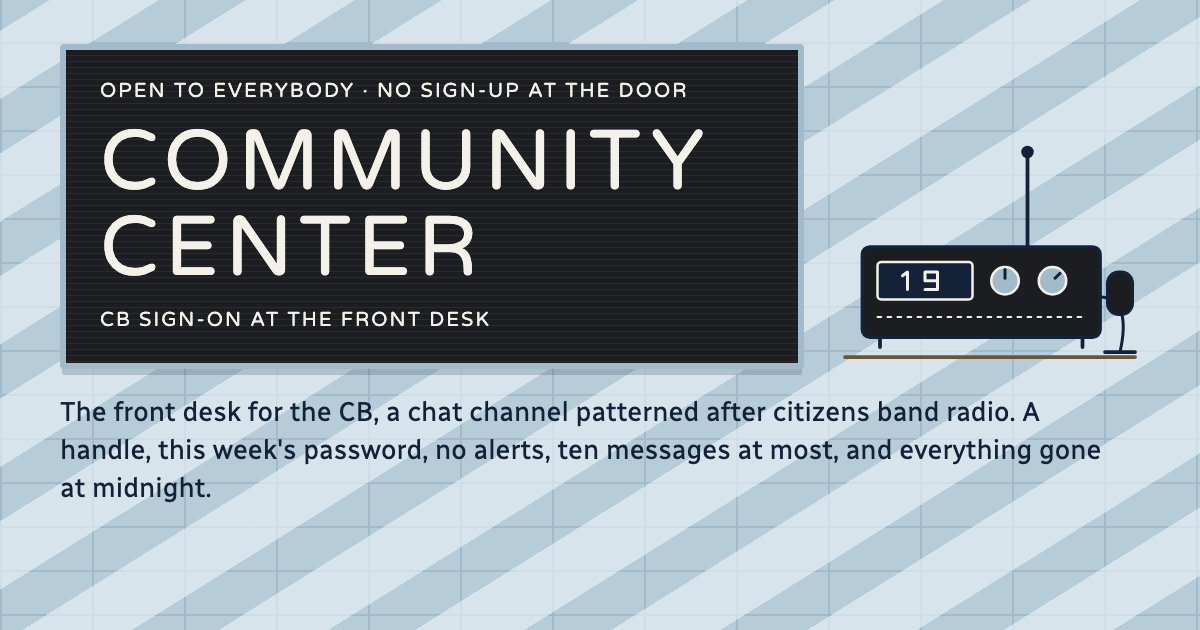
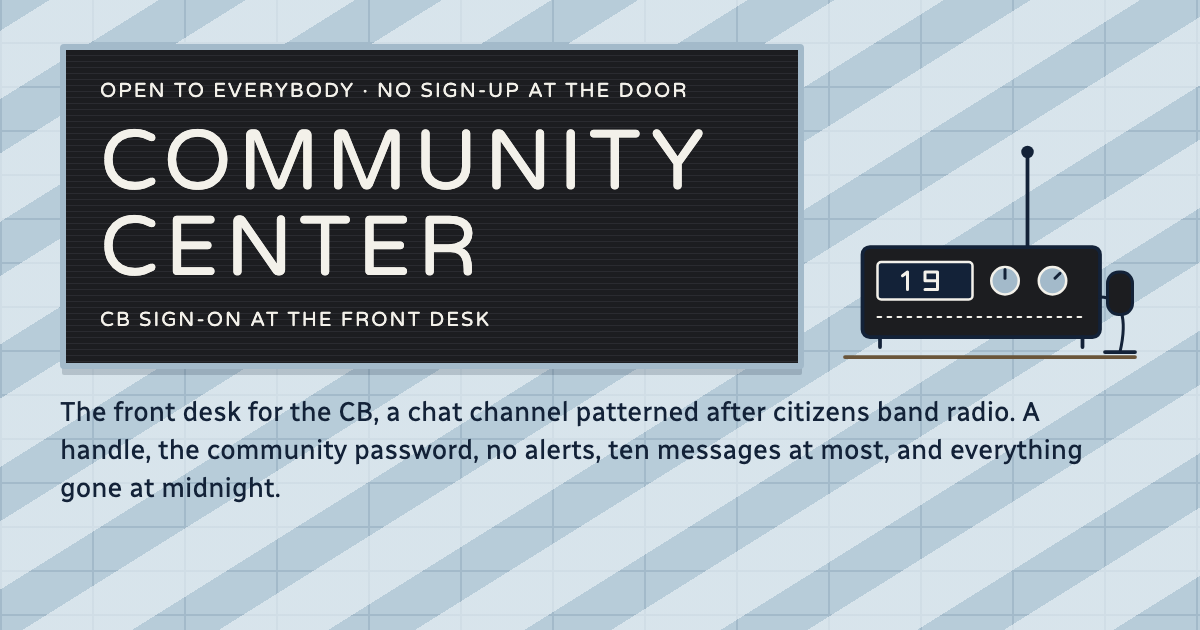
cb: the community password, not this week's
Ryan, 2026-09-26: the password will probably only change if there is a
problem, so "this week's password" promised a rotation that is not going
to happen. It is "the community password" everywhere it is named: the
Community Center's sign-on label, its description and share card, the
line above the form (which now says it only changes if something goes
wrong, and then everybody signs on again), two house norms, the credits,
the street door, Plural Mural's chalkboard, and the sign-on function's
refusal. The changelog entry from the day the CB opened keeps its words,
because it records what shipped.

DECISIONS.md had how often the password rotates as open; it is settled:
only when there is a problem, which is also the only ban there is.

Changed region(s): [[0.0308, 0.6937, 0.925, 0.8143]]

diff --git a/community-center.html b/community-center.html
@@ -4,20 +4,20 @@
 <meta charset="utf-8">
 <meta name="viewport" content="width=device-width, initial-scale=1">
 <title>Community Center &mdash; Stimpunks.World</title>
-<meta name="description" content="A shopfront on the street with the blinds half open: the front desk where you sign on to the CB with a handle and this week's password, its house norms and our covenant, and the community service board, with a slot for every room that takes something in from our community.">
+<meta name="description" content="A shopfront on the street with the blinds half open: the front desk where you sign on to the CB with a handle and the community password, its house norms and our covenant, and the community service board, with a slot for every room that takes something in from our community.">
 <link rel="canonical" href="https://stimpunks.world/community-center.html">
 <meta name="color-scheme" content="light">
 <meta name="theme-color" content="#B7CCD9">
 <meta property="og:type" content="website">
 <meta property="og:site_name" content="Stimpunks.World">
 <meta property="og:title" content="Community Center &mdash; Stimpunks.World">
-<meta property="og:description" content="The front desk for the CB, a chat channel patterned after citizens band radio. A handle, this week's password, no alerts, ten messages at most, and everything gone at midnight.">
+<meta property="og:description" content="The front desk for the CB, a chat channel patterned after citizens band radio. A handle, the community password, no alerts, ten messages at most, and everything gone at midnight.">
 <meta property="og:url" content="https://stimpunks.world/community-center.html">
 <meta property="og:image" content="https://stimpunks.world/og/community-center.png">
 <meta property="og:image:type" content="image/png">
 <meta property="og:image:width" content="1200">
 <meta property="og:image:height" content="630">
-<meta property="og:image:alt" content="A powder-blue painted block wall with bars of morning sun falling across it at an angle, through a half-open blind. A black felt letterboard in an aluminium frame reads, in white push-in capitals: Open to everybody · no sign-up at the door, then “Community Center”, then CB sign-on at the front desk. Beside it, a drawing of a CB base station on a desk, with its aerial up and its microphone on a stand, the channel window reading 19. Under it, in dark ink on the wall: The front desk for the CB, a chat channel patterned after citizens band radio. A handle, this week&#x27;s password, no alerts, ten messages at most, and everything gone at midnight.">
+<meta property="og:image:alt" content="A powder-blue painted block wall with bars of morning sun falling across it at an angle, through a half-open blind. A black felt letterboard in an aluminium frame reads, in white push-in capitals: Open to everybody · no sign-up at the door, then “Community Center”, then CB sign-on at the front desk. Beside it, a drawing of a CB base station on a desk, with its aerial up and its microphone on a stand, the channel window reading 19. Under it, in dark ink on the wall: The front desk for the CB, a chat channel patterned after citizens band radio. A handle, the community password, no alerts, ten messages at most, and everything gone at midnight.">
 <meta name="twitter:card" content="summary_large_image">
 <link rel="icon" href="favicon.svg" type="image/svg+xml">
 <link rel="icon" href="favicon.ico" sizes="32x32">
@@ -32,7 +32,7 @@
      stored choice wins over the media query, including a choice to turn it UP. -->
 <script>var d=document.documentElement,v=matchMedia('(prefers-reduced-motion: reduce)').matches?'gentle':'regular';try{var s=localStorage.getItem('love-intensity');if(s==='gentle'||s==='regular'||s==='max'){v=s;}}catch(e){}d.setAttribute('data-intensity',v);</script>
 <!-- structured-data:begin -->
-<script type="application/ld+json">{"@context":"https://schema.org","@graph":[{"@type":"WebSite","@id":"https://stimpunks.world/#website","name":"Stimpunks.World","url":"https://stimpunks.world/","description":"Queer without fear. Interdependent and here. Divergent and proud. Living out loud. One street, no two rooms alike, a garden through the gate in the wall, a campground past the treeline, and a dial that lets you decide how loud it gets. A Stimpunks Foundation site.","inLanguage":"en","publisher":{"@id":"https://stimpunks.org/#org"},"license":"https://creativecommons.org/licenses/by-sa/4.0/"},{"@type":"Organization","@id":"https://stimpunks.org/#org","name":"Stimpunks Foundation","url":"https://stimpunks.org/"},{"@type":"WebPage","@id":"https://stimpunks.world/community-center.html#webpage","url":"https://stimpunks.world/community-center.html","name":"Community Center — Stimpunks.World","description":"A shopfront on the street with the blinds half open: the front desk where you sign on to the CB with a handle and this week's password, its house norms and our covenant, and the community service board, with a slot for every room that takes something in from our community.","inLanguage":"en","isPartOf":{"@id":"https://stimpunks.world/#website"},"publisher":{"@id":"https://stimpunks.org/#org"}}]}</script>
+<script type="application/ld+json">{"@context":"https://schema.org","@graph":[{"@type":"WebSite","@id":"https://stimpunks.world/#website","name":"Stimpunks.World","url":"https://stimpunks.world/","description":"Queer without fear. Interdependent and here. Divergent and proud. Living out loud. One street, no two rooms alike, a garden through the gate in the wall, a campground past the treeline, and a dial that lets you decide how loud it gets. A Stimpunks Foundation site.","inLanguage":"en","publisher":{"@id":"https://stimpunks.org/#org"},"license":"https://creativecommons.org/licenses/by-sa/4.0/"},{"@type":"Organization","@id":"https://stimpunks.org/#org","name":"Stimpunks Foundation","url":"https://stimpunks.org/"},{"@type":"WebPage","@id":"https://stimpunks.world/community-center.html#webpage","url":"https://stimpunks.world/community-center.html","name":"Community Center — Stimpunks.World","description":"A shopfront on the street with the blinds half open: the front desk where you sign on to the CB with a handle and the community password, its house norms and our covenant, and the community service board, with a slot for every room that takes something in from our community.","inLanguage":"en","isPartOf":{"@id":"https://stimpunks.world/#website"},"publisher":{"@id":"https://stimpunks.org/#org"}}]}</script>
 <!-- structured-data:end -->
 </head>
 <!-- data-cb="here": this page loads cb.js itself, because the pass comes from
@@ -53,13 +53,13 @@
     <p class="ctr-board__line">CB sign-on at the front desk</p>
   </header>
 
-  <p class="ctr-lede">The street&rsquo;s community center, at about ten in the morning. The sun comes in through the blinds, the chairs are stacked against the wall, and there is a radio on the front desk. <strong>The radio is the CB</strong>, a chat channel patterned after citizens band radio, and this is the only place it is switched on. Sign on with a handle and this week&rsquo;s password and it rides along in the corner of your screen, on every page of the street, until the password changes or you sign off. <strong>On the wall by the desk is the community service board</strong>: every way there is to give something to a room on this street, and how.</p>
+  <p class="ctr-lede">The street&rsquo;s community center, at about ten in the morning. The sun comes in through the blinds, the chairs are stacked against the wall, and there is a radio on the front desk. <strong>The radio is the CB</strong>, a chat channel patterned after citizens band radio, and this is the only place it is switched on. Sign on with a handle and the community password and it rides along in the corner of your screen, on every page of the street, until the password changes or you sign off. <strong>On the wall by the desk is the community service board</strong>: every way there is to give something to a room on this street, and how.</p>
 
   <section class="ctr-part" aria-labelledby="cb-signon-h" id="cb-signon-desk">
     <h2 id="cb-signon-h">The front desk</h2>
     <div class="ctr-desk">
       <div>
-        <p>A handle is whatever you type, up to 24 characters. The password is shared with <a href="https://stimpunks.org/community/">the Stimpunks community</a> and changes from time to time, so ask for it there; if you are not in the community yet, <a href="https://stimpunks.org/community/join/">joining is on stimpunks.org</a>.</p>
+        <p>A handle is whatever you type, up to 24 characters. The password is shared with <a href="https://stimpunks.org/community/">the Stimpunks community</a>, so ask for it there. It only changes if something goes wrong, and then everybody signs on again with the new one; if you are not in the community yet, <a href="https://stimpunks.org/community/join/">joining is on stimpunks.org</a>.</p>
 
         <form class="ctr-form" id="cb-signon" hidden>
           <div>
@@ -67,7 +67,7 @@
             <input class="ctr-in" id="cb-handle" name="handle" type="text" maxlength="24" required autocomplete="nickname" spellcheck="false">
           </div>
           <div>
-            <label class="ctr-lab" for="cb-password">This week&rsquo;s password</label>
+            <label class="ctr-lab" for="cb-password">The community password</label>
             <input class="ctr-in" id="cb-password" name="password" type="password" required autocomplete="current-password">
           </div>
           <button class="ctr-go" type="submit">Sign on</button>
@@ -128,12 +128,12 @@
     <ol class="ctr-list">
       <li><strong>Our covenant is the floor.</strong> Everything in <a href="https://stimpunks.org/covenant/">the Stimpunks Covenant</a> applies on the channel, as it does in every Stimpunks space.</li>
       <li><strong>A handle is not proof of anybody.</strong> Nothing checks them, so do not borrow somebody else&rsquo;s, and do not take anybody&rsquo;s as proof of who they are. The one mark that is checked is <b>BASE</b>: only our moderators can send it.</li>
-      <li><strong>It is a room, not a private line.</strong> Everybody with this week&rsquo;s password can read the channel. Say what you would say in a room with people in it.</li>
+      <li><strong>It is a room, not a private line.</strong> Everybody with the community password can read the channel. Say what you would say in a room with people in it.</li>
       <li><strong>What is said here stays here.</strong> The channel forgets at midnight; do not carry it off in a screenshot or a repost unless everybody in it has said you can. That is the covenant&rsquo;s own privacy norm, on the one channel of ours built to forget.</li>
       <li><strong>Nobody has to answer.</strong> There are no alerts because nobody is waiting on you. A message into a quiet channel is fine, a quiet channel is fine, and you can leave without saying goodbye.</li>
       <li><strong>Plain words are fine.</strong> Say ten-four and breaker-breaker if you like them. Nobody needs to know the codes.</li>
       <li><strong>A room on the street is a link.</strong> Type # and the start of its name, like #den, pick it from the list, and everybody on the channel sees it as #The Den, linked. Arrow keys move through the list, Enter or Tab picks, and Escape leaves your # alone. A room&rsquo;s full address works too, like stimpunks.world/the-den.html. An address anywhere else stays plain words, which you can still copy.</li>
-      <li><strong>Keep the password inside the community.</strong> It changes from time to time, and everybody is signed off when it does.</li>
+      <li><strong>Keep the password inside the community.</strong> It only changes if there is a problem, and everybody is signed off when it does.</li>
       <li><strong>If something is wrong, tell the base.</strong> Say so on the channel, or <a href="https://stimpunks.org/contact/">reach us privately</a>. The base station can take a message off the air. If it keeps happening, the password changes, which signs everybody off at once, and that is the only other lever there is.</li>
     </ol>
   </section>
@@ -402,7 +402,7 @@
 
   <section class="ctr-part" aria-labelledby="cb-whose-h">
     <h2 id="cb-whose-h">Whose this is</h2>
-    <p><strong>The CB was Ryan&rsquo;s idea</strong>: a simple chat patterned after citizens band radio, a shared password that rotates, no alerts, a short history cleared daily, and a radio that floats on the screen once you are on. It is the one thing on this street that talks to a server, and the only thing that sends anything anywhere, and the <a href="privacy.html">privacy page</a> says in plain words what that server keeps.</p>
+    <p><strong>The CB was Ryan&rsquo;s idea</strong>: a simple chat patterned after citizens band radio, one password shared with the community, no alerts, a short history cleared daily, and a radio that floats on the screen once you are on. It is the one thing on this street that talks to a server, and the only thing that sends anything anywhere, and the <a href="privacy.html">privacy page</a> says in plain words what that server keeps.</p>
     <p class="ctr-further">The type is Varela Round, by Joe Prince, for the letterboard, and Radio Canada, by Charles Daoud, Coppers and Brasses, Alexandre Saumier Demers and Jacques Le Bailly, for everything that is read, both under the SIL Open Font License and read off their own records rather than typed. The radio on the desk is ours. Everything is credited in the <a href="liner-notes.html">liner notes</a>.</p>
   </section>
 

diff --git a/plural-mural.html b/plural-mural.html
@@ -217,7 +217,7 @@
         <p class="pm-chalk__said" id="pm-chalk-said" role="status"></p>
       </form>
     </div>
-    <p class="pm-chalk__signon" id="pm-chalk-signon" hidden>Writing on the board takes a CB handle and this week&rsquo;s password: <a href="community-center.html">sign on at the Community Center</a>, then come back. Reading it takes nothing.</p>
+    <p class="pm-chalk__signon" id="pm-chalk-signon" hidden>Writing on the board takes a CB handle and the community password: <a href="community-center.html">sign on at the Community Center</a>, then come back. Reading it takes nothing.</p>
     <ul class="pm-rules">
       <li><strong>Anybody can read it, and only people signed on to the CB can write on it.</strong> That is what keeps the chalk in the community&rsquo;s hands: the password is shared in <a href="https://stimpunks.org/community/">our community</a> and changes from time to time. A handle is whatever somebody typed, so a name on the board is not proof of who wrote it.</li>
       <li><strong>A note is rubbed out seven days after it goes up</strong>, and the board holds thirty, so a full board loses its oldest note to make room. There is no archive and no copy. Search engines are asked not to keep it.</li>

diff --git a/index.html b/index.html
@@ -307,7 +307,7 @@
       <span class="door__awning" aria-hidden="true"></span>
       <span class="door__body">
         <span><span class="door__name">Community Center</span>
-        <span class="door__blurb">A painted block hall with the blinds half open, and a radio on the front desk. Sign on to the CB with a handle and this week&rsquo;s password, read the house norms, and the radio rides along in the corner of every page until you sign off.</span></span>
+        <span class="door__blurb">A painted block hall with the blinds half open, and a radio on the front desk. Sign on to the CB with a handle and the community password, read the house norms, and the radio rides along in the corner of every page until you sign off.</span></span>
         <span class="door__knock">sign on &rarr;</span>
       </span>
     </a></li>

diff --git a/DECISIONS.md b/DECISIONS.md
@@ -14,7 +14,7 @@ Settled choices and open ones, each with the reasoning, so the same question is 
 
 **The Dopamine Dress-Up Den's looks with names on them came in a brief.** Ryan's is his own; Helen's was relayed by Ryan (cardigans, flowing dresses, a witchy style), and the moons, the midnight and the plum on it are the house's guess at witchy. The room says so on the look and in the liner notes. Open: whether Helen wants to change hers or give her own words. Settled 2026-09-25: our community's own looks go on the peg, in words and never as a photograph, with the house picking prints off the rails and drawing any garment it has not got yet; the room's terms are under *A look of your own* and the Community Center's service board carries a slot for it, held to those words by `make-community.py`. Still open: who writes an arriving look into `data/dressup.json`, and whether looks ever need a second page once there are a lot of them. Not open: a paper doll or any drawing of a body, sizes, gendered rails, a rating, or a colourway set with no all-black one; `tools/make-dressup.py` refuses each.
 
-**The CB is built and has not been switched on.** Everything is in the repository and nothing runs until Netlify has `CB_PASSWORD` and `CB_MOD_PASSWORD` in its environment and the site is redeployed; until then the front desk refuses every password, which is the correct failure. Open, and each is Ryan's: **where the password is given out** (the Community Center says to ask in the Stimpunks community, which is a claim about a channel that has to exist before it ships); **how often it rotates**, since rotation is also the only ban there is; **who holds the base station's password**; and **who the CB is for**, because an unmoderated live channel with strangers in it is a different thing from a consented photograph, and the house norms do not yet say anything about young people. Also to check on the first deploy: that Netlify installs `@netlify/blobs` from `package.json` with an empty build command, that `node_modules/` and `netlify/` answer 404 (the forced rules in `_redirects`), that the per-address rate limits in each function's config are honoured on the plan we are on, and how many function calls a day of polling actually costs.
+**The CB is built and has not been switched on.** Everything is in the repository and nothing runs until Netlify has `CB_PASSWORD` and `CB_MOD_PASSWORD` in its environment and the site is redeployed; until then the front desk refuses every password, which is the correct failure. Open, and each is Ryan's: **where the password is given out** (the Community Center says to ask in the Stimpunks community, which is a claim about a channel that has to exist before it ships); **how often it rotates** was open and is settled, Ryan's call 2026-09-26: only when there is a problem, which is also the only ban there is, so the site calls it the community password rather than this week's; **who holds the base station's password**; and **who the CB is for**, because an unmoderated live channel with strangers in it is a different thing from a consented photograph, and the house norms do not yet say anything about young people. Also to check on the first deploy: that Netlify installs `@netlify/blobs` from `package.json` with an empty build command, that `node_modules/` and `netlify/` answer 404 (the forced rules in `_redirects`), that the per-address rate limits in each function's config are honoured on the plan we are on, and how many function calls a day of polling actually costs.
 
 **The Collection Collection's other cabinets arrived in a brief rather than from their people.** Ryan's pens, paper and ink and his perfume are his own; Norah and her husband's leather swatches and stamping tools, Chelsea's house plants and Helen's books and rocks were named by Ryan in the brief for the room, 2026-09-23, and each cabinet says it was relayed and stays empty until its owner sends something. Open: whether each of them wants a cabinet at all (a cabinet can come down as easily as a photograph), how Norah's husband would like to be named, which lamp each chooses and whether the house's guess at their furniture is right. Helen in particular: the Faery Yurt's rule is that nothing of hers changes without asking her, and a cabinet in her name is a new thing about her, so it waits for her word. Not open: filling any of those cabinets from memory or from photographs of theirs published elsewhere.
 
